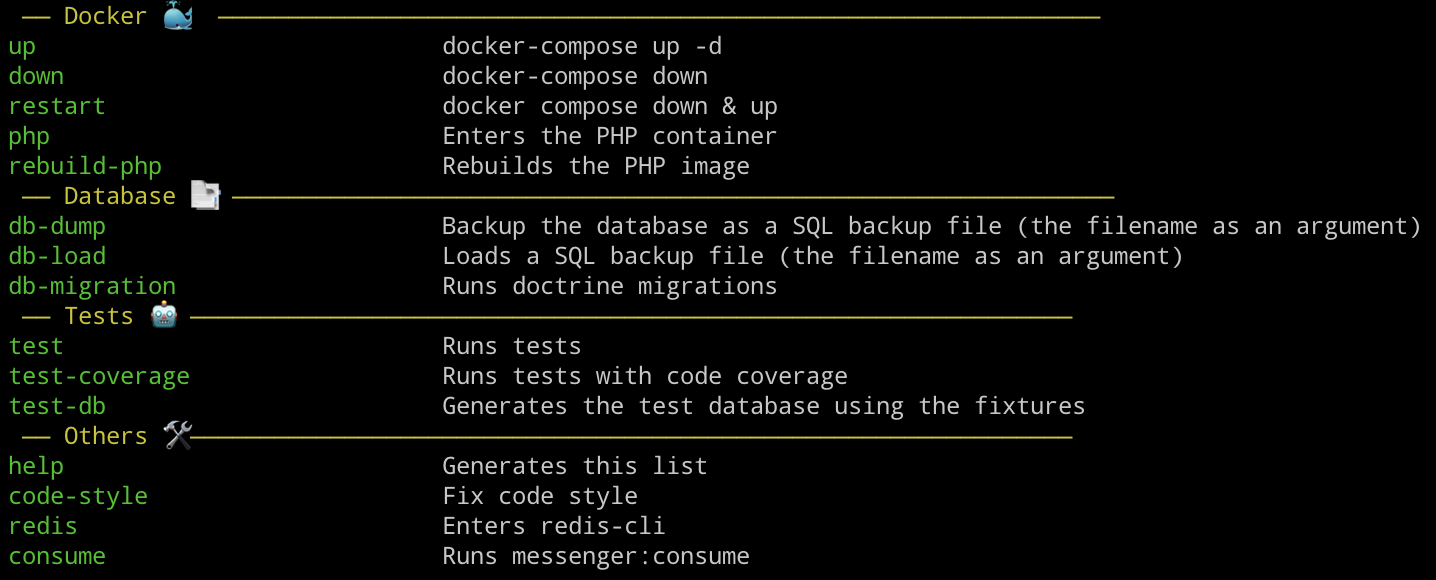
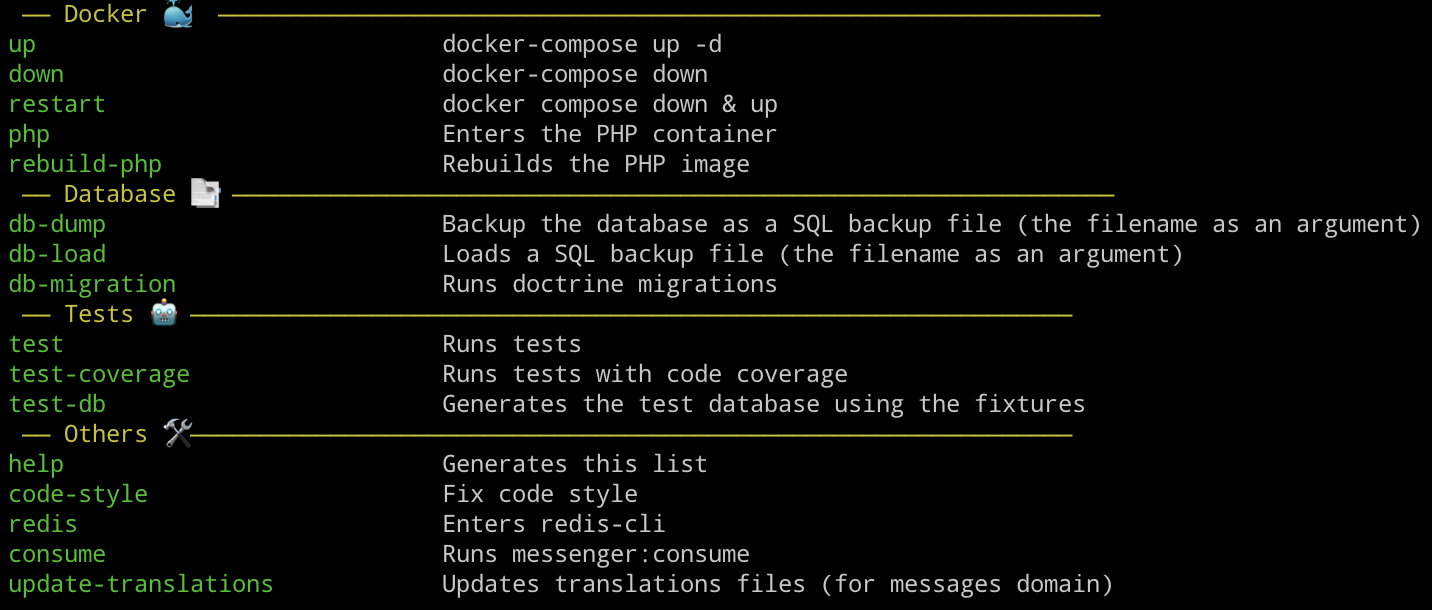
New Make command to update all translations

Changed region(s): [[0.0, 0.0621, 1.0, 0.9931], [0.0, 0.0, 0.7682, 0.0621]]

diff --git a/README.md b/README.md
@@ -44,3 +44,7 @@ Make commands
 *Redis*
 
 - `make redis` to enter the redis-cli
+
+*Translations*
+
+- `make update-translations` (or `make ut` ) to update the translations files
